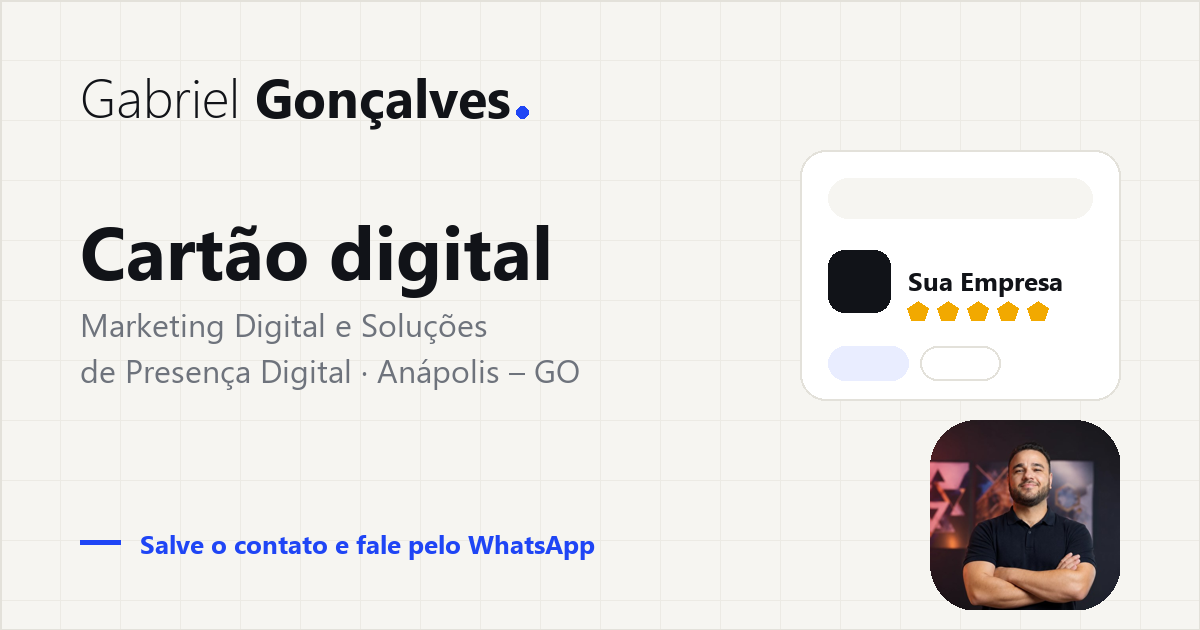
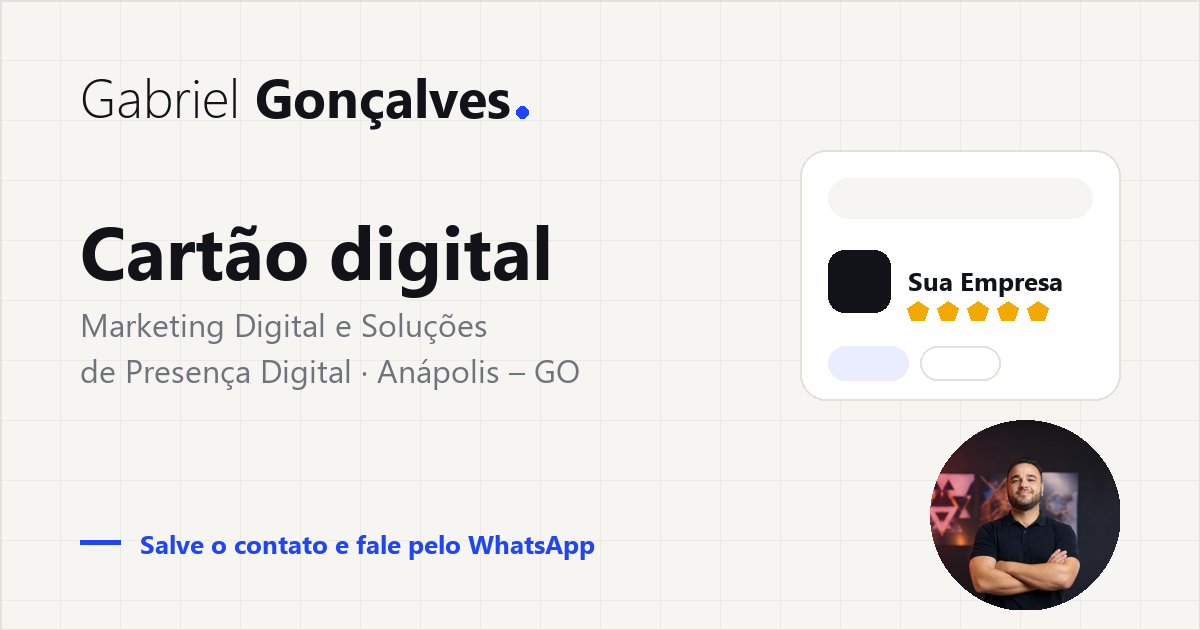
Foto redonda com braços dentro do círculo; arquivo versionado e cache menor

Changed region(s): [[0.7708, 0.6635, 0.9558, 0.9952]]

diff --git a/index.html b/index.html
@@ -94,7 +94,7 @@
       <h1 id="h-hero">Todo dia alguém procura o que você vende. Ele encontra <em>você ou o seu concorrente?</em></h1>
       <p class="sub">Ajudo empresas de Anápolis a aparecerem primeiro e a receberem mais contatos.</p>
       <div class="hero-id">
-        <img class="hid-photo" src="assets/gabriel-avatar.jpg" alt="Gabriel Gonçalves" width="64" height="64">
+        <img class="hid-photo" src="assets/gabriel-avatar-v3.jpg" alt="Gabriel Gonçalves" width="64" height="64">
         <div>
           <strong>Gabriel Gonçalves</strong>
           <span>Marketing Digital | Design | Desenvolvimento de Sites | Soluções digitais</span>

diff --git a/css/style.css b/css/style.css
@@ -583,3 +583,7 @@ h2{font-size:clamp(1.7rem,4.6vw,2.7rem);max-width:20ch}
 .reelwrap .phase{position:absolute;left:12px;top:12px;font-size:.7rem;font-weight:700;letter-spacing:.06em;text-transform:uppercase;color:var(--ink);background:rgba(255,255,255,.92);border-radius:999px;padding:5px 12px;transition:.3s}
 .reelwrap .phase.res{background:var(--accent);color:#fff}
 @media(max-width:760px){.step-vis.reel{min-height:330px}.reelwrap{height:290px}}
+
+/* foto redonda de novo (a imagem já vem com os braços dentro do círculo) */
+.vcard .avatar{width:124px;height:124px;border-radius:50%}
+.hid-photo{width:68px;height:68px;border-radius:50%}

diff --git a/cartao/index.html b/cartao/index.html
@@ -40,7 +40,7 @@
 <main class="card-page">
   <article class="vcard">
     <div class="avatar">
-      <img src="../assets/gabriel-avatar.jpg" alt="Gabriel Gonçalves" onerror="this.remove()" width="112" height="112">
+      <img src="../assets/gabriel-avatar-v3.jpg" alt="Gabriel Gonçalves" onerror="this.remove()" width="112" height="112">
       <b>GG</b>
     </div>
     <h1><img class="wordmark" src="../assets/logo-nome.svg" alt="Gabriel Gonçalves" height="40"></h1>

diff --git a/tools/gerar-imagens.py b/tools/gerar-imagens.py
@@ -62,12 +62,12 @@ def og(nome_arquivo, titulo, linhas, rotulo):
     return im, d
 
 def salvar_foto_se_existir(im, d):
-    p = os.path.join(A, "gabriel-avatar.jpg")
+    p = os.path.join(A, "gabriel-avatar-v3.jpg")
     if os.path.exists(p):
         f = Image.open(p).convert("RGB")
         f = ImageOps.fit(f, (190, 190))
         m = Image.new("L", (190, 190), 0)
-        ImageDraw.Draw(m).rounded_rectangle([0, 0, 190, 190], radius=46, fill=255)
+        ImageDraw.Draw(m).ellipse([0, 0, 190, 190], fill=255)
         im.paste(f, (930, 420), m)
 
 # og principal
